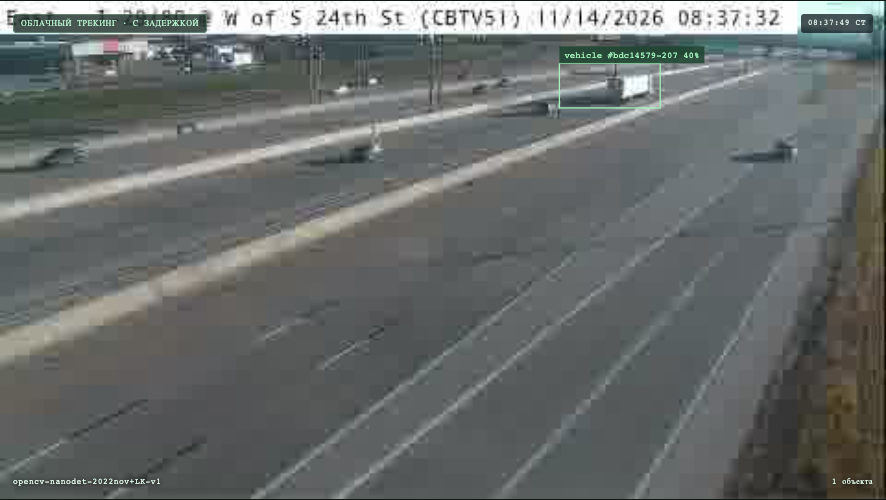
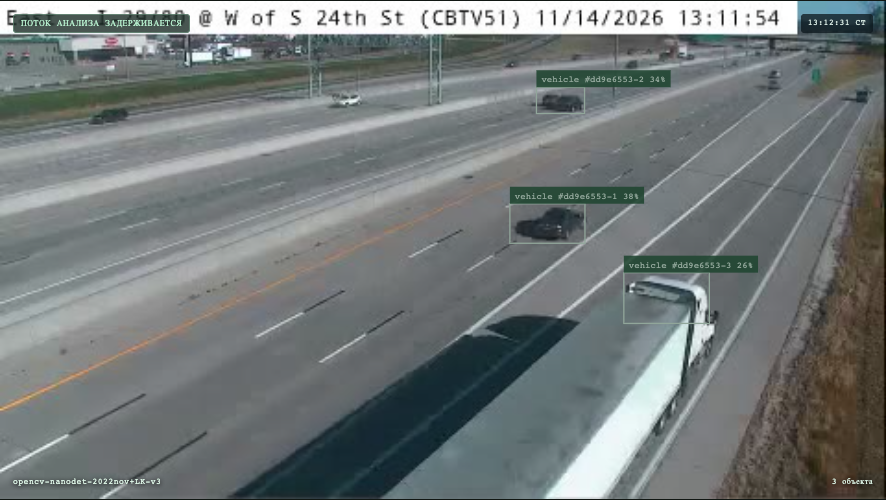
Record measured live playback and refresh real v3 screenshots

diff --git a/docs/TRACKING_PACKET_RECOVERY.md b/docs/TRACKING_PACKET_RECOVERY.md
@@ -21,3 +21,12 @@ Browser QA проверяет, что после ответа с более ст
 
 
 Первая производственная проверка порядка кадров: 29 показанных кадров за 30.9 с (~0.94 fps), 0 переходов назад, максимальная пауза 4.55 с, максимальный возраст показанного кадра 6.162 с. Она выявила потерю кадров при underrun: часы воспроизведения продолжали идти при пустой очереди и считали пришедший пакет целиком опоздавшим. Следующая правка приостанавливает эту временную шкалу и начинает новый фактический пакет с небольшим буфером, сохраняя отметку последнего показанного captured_at. Это проверяется отдельным regression test; реального 25–30 fps такая правка не создаёт.
+
+
+## Итоговая проверка воспроизведения
+
+После восстановления временной шкалы при пустой очереди production browser probe показал 73 настоящих кадра примерно за 31.2 с = 2.337 fps, 0 кадров с обратным captured_at, максимальную паузу 2.714 с и возраст показанного кадра до 7.09 с. В браузере наблюдались реальные vehicle ID v3, overlay соответствовал изображениям, uncaught errors=0, collector online. 29 API-ответов были старше пяти секунд; это остаётся измеренной задержкой, а не скрывается как realtime. Возраст считается от collector_arrival и не включает неизвестную дополнительную задержку HLS/часов камеры. Прогоны до и после выполнялись в разное время, поэтому их нельзя считать контролируемым сравнением CPU/источника.
+
+Финальный [CI](https://github.com/subrosa5/roadwatch/actions/runs/43630523096): success, 48 Node + 28 Python tests и E2E. Source 34289c327e60da60b6256a27b8de84867806b796, deployment appgdep_6af8b258b1b88191b1e4018302e8de74: succeeded, owner-private. Код коллектора и ZIP не менялись; для этих серверных и браузерных исправлений достаточно обновить страницу без кеша.
+
+Скриншоты README обновлены реальными кадрами v3 с видимыми рамками. Плавное видео 25–30 fps с рамками на текущей схеме не достигнуто: ограничениями остаются Hostrix, inference и пересылка кадров. Для непрерывного исходного HLS существует отдельный режим «Живое видео», фоновый анализ событий от него не зависит.
